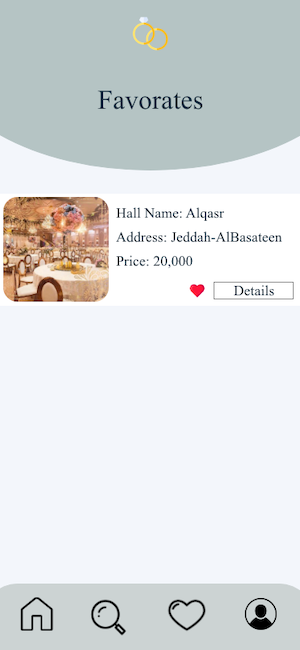
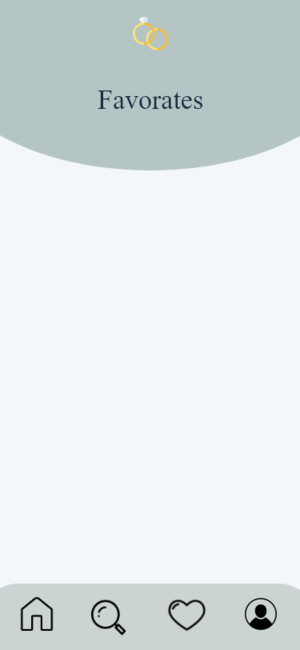
sh

diff --git a/src/project_305/TenantPage_Favorate.java b/src/project_305/TenantPage_Favorate.java
@@ -6,6 +6,11 @@
 package project_305;
 
 import java.io.FileNotFoundException;
+import java.sql.Connection;
+import java.sql.DriverManager;
+import java.sql.PreparedStatement;
+import java.sql.ResultSet;
+import java.sql.Statement;
 import java.util.logging.Level;
 import java.util.logging.Logger;
 
@@ -21,8 +26,26 @@ public class TenantPage_Favorate extends javax.swing.JFrame {
     public TenantPage_Favorate() {
         initComponents();
         setLocationRelativeTo(null);
-        
+        Connection connection = null;
+        try {
+            Class.forName("com.mysql.cj.jdbc.Driver");
+            String ConnectionURL = "jdbc:mysql://localhost:3306/weddinghallreservation";
+            PreparedStatement q;
+            connection = DriverManager.getConnection(ConnectionURL, "root", "1212");
+            String query = "Select `Hallname` , `HallPrice`  from `hallinfo`,`favorites` where `favorites`.`idTenant` ='" + Login.Id + "' and `favorites`.`idHallInfo` ='" + TenantPage_Hallinfo.id + "' and `hallinfo`.`idHallInfo`=`favorites`.`idHallInfo` ";  
+            Statement stm = connection.createStatement();
+            ResultSet rs = stm.executeQuery(query);
 
+            while (rs.next()) {
+                String Hallname = rs.getString(1);
+                double HallPrice = rs.getDouble(2);
+                jLabel2.setText(Hallname);
+                jLabel3.setText(HallPrice + "");
+            }
+
+        } catch (Exception e) {
+            e.printStackTrace();
+        }
     }
 
     /**
@@ -36,12 +59,14 @@ public class TenantPage_Favorate extends javax.swing.JFrame {
 
         jPanel1 = new javax.swing.JPanel();
         NoFav = new java.awt.Label();
-        jPanelFav = new javax.swing.JPanel();
         jLabel9 = new javax.swing.JLabel();
         jLabel7 = new javax.swing.JLabel();
         jLabel6 = new javax.swing.JLabel();
         jLabel5 = new javax.swing.JLabel();
+        jLabel10 = new javax.swing.JLabel();
         jLabel8 = new javax.swing.JLabel();
+        jLabel2 = new javax.swing.JLabel();
+        jLabel3 = new javax.swing.JLabel();
         jLabel1 = new javax.swing.JLabel();
 
         setDefaultCloseOperation(javax.swing.WindowConstants.EXIT_ON_CLOSE);
@@ -53,23 +78,7 @@ public class TenantPage_Favorate extends javax.swing.JFrame {
         NoFav.setForeground(new java.awt.Color(153, 153, 153));
         NoFav.setText("  No Favorates");
         jPanel1.add(NoFav);
-        NoFav.setBounds(60, 350, 160, 40);
-
-        jPanelFav.setBackground(new java.awt.Color(243, 246, 251));
-
-        javax.swing.GroupLayout jPanelFavLayout = new javax.swing.GroupLayout(jPanelFav);
-        jPanelFav.setLayout(jPanelFavLayout);
-        jPanelFavLayout.setHorizontalGroup(
-            jPanelFavLayout.createParallelGroup(javax.swing.GroupLayout.Alignment.LEADING)
-            .addGap(0, 300, Short.MAX_VALUE)
-        );
-        jPanelFavLayout.setVerticalGroup(
-            jPanelFavLayout.createParallelGroup(javax.swing.GroupLayout.Alignment.LEADING)
-            .addGap(0, 140, Short.MAX_VALUE)
-        );
-
-        jPanel1.add(jPanelFav);
-        jPanelFav.setBounds(0, 180, 300, 140);
+        NoFav.setBounds(70, 360, 160, 40);
 
         jLabel9.addMouseListener(new java.awt.event.MouseAdapter() {
             public void mouseClicked(java.awt.event.MouseEvent evt) {
@@ -103,6 +112,14 @@ public class TenantPage_Favorate extends javax.swing.JFrame {
         jPanel1.add(jLabel5);
         jLabel5.setBounds(20, 600, 35, 30);
 
+        jLabel10.addMouseListener(new java.awt.event.MouseAdapter() {
+            public void mouseClicked(java.awt.event.MouseEvent evt) {
+                jLabel10MouseClicked(evt);
+            }
+        });
+        jPanel1.add(jLabel10);
+        jLabel10.setBounds(0, 0, 50, 30);
+
         jLabel8.addMouseListener(new java.awt.event.MouseAdapter() {
             public void mouseClicked(java.awt.event.MouseEvent evt) {
                 jLabel8MouseClicked(evt);
@@ -111,7 +128,16 @@ public class TenantPage_Favorate extends javax.swing.JFrame {
         jPanel1.add(jLabel8);
         jLabel8.setBounds(10, 0, 30, 30);
 
-        jLabel1.setIcon(new javax.swing.ImageIcon(getClass().getResource("/project_305/TenantPage – 7.png"))); // NOI18N
+        jLabel2.setText("x");
+        jLabel2.setToolTipText("");
+        jPanel1.add(jLabel2);
+        jLabel2.setBounds(40, 220, 180, 30);
+
+        jLabel3.setText("x");
+        jPanel1.add(jLabel3);
+        jLabel3.setBounds(40, 260, 180, 30);
+
+        jLabel1.setIcon(new javax.swing.ImageIcon("C:\\Users\\shood\\Documents\\NetBeansProjects\\305-Project\\src\\project_305\\TenantPage – 7.png")); // NOI18N
         jPanel1.add(jLabel1);
         jLabel1.setBounds(0, 0, 300, 650);
 
@@ -143,6 +169,7 @@ public class TenantPage_Favorate extends javax.swing.JFrame {
 
     private void jLabel7MouseClicked(java.awt.event.MouseEvent evt) {//GEN-FIRST:event_jLabel7MouseClicked
         // TODO add your handling code here:
+
         TenantPage_Favorate ob = new TenantPage_Favorate();
         ob.setVisible(true);
         this.setVisible(false);
@@ -162,17 +189,29 @@ public class TenantPage_Favorate extends javax.swing.JFrame {
 
     private void jLabel5MouseClicked(java.awt.event.MouseEvent evt) {//GEN-FIRST:event_jLabel5MouseClicked
         // TODO add your handling code here:
-        TenantPage_Home ob=new TenantPage_Home();
+        TenantPage_Home ob = new TenantPage_Home();
         ob.setVisible(true);
         this.setVisible(false);
     }//GEN-LAST:event_jLabel5MouseClicked
 
     private void jLabel8MouseClicked(java.awt.event.MouseEvent evt) {//GEN-FIRST:event_jLabel8MouseClicked
         // BBAACCCCKKKKKK
-       TenantPage_Hallinfo ob = new TenantPage_Hallinfo();
+        TenantPage_Hallinfo ob = new TenantPage_Hallinfo();
         ob.setVisible(true);
         this.setVisible(false);
     }//GEN-LAST:event_jLabel8MouseClicked
+
+    private void jLabel10MouseClicked(java.awt.event.MouseEvent evt) {//GEN-FIRST:event_jLabel10MouseClicked
+        // BBAACCCCKKKKKK
+        TenantPage_Search ob;
+        try {
+            ob = new TenantPage_Search();
+            ob.setVisible(true);
+            this.setVisible(false);
+        } catch (FileNotFoundException ex) {
+            Logger.getLogger(TenantPage_Hallinfo.class.getName()).log(Level.SEVERE, null, ex);
+        }
+    }//GEN-LAST:event_jLabel10MouseClicked
 
     /**
      * @param args the command line arguments
@@ -212,12 +251,14 @@ public class TenantPage_Favorate extends javax.swing.JFrame {
     // Variables declaration - do not modify//GEN-BEGIN:variables
     private java.awt.Label NoFav;
     private javax.swing.JLabel jLabel1;
+    private javax.swing.JLabel jLabel10;
+    private javax.swing.JLabel jLabel2;
+    private javax.swing.JLabel jLabel3;
     private javax.swing.JLabel jLabel5;
     private javax.swing.JLabel jLabel6;
     private javax.swing.JLabel jLabel7;
     private javax.swing.JLabel jLabel8;
     private javax.swing.JLabel jLabel9;
     private javax.swing.JPanel jPanel1;
-    private javax.swing.JPanel jPanelFav;
     // End of variables declaration//GEN-END:variables
 }

diff --git a/src/project_305/TenantPage_Hallinfo.java b/src/project_305/TenantPage_Hallinfo.java
@@ -65,10 +65,9 @@ public class TenantPage_Hallinfo extends javax.swing.JFrame {
                 Image mm = format.getImage();
                 Image img2 = mm.getScaledInstance(110, 133, Image.SCALE_SMOOTH);
                 ImageIcon image = new ImageIcon(img2);
-         
 
                 idh.setText("ID: " + id);
-              name.setText(hn);
+                name.setText(hn);
                 Capacity.setText(hc + "");
                 hallAddress.setText(ha);
                 HallPrice.setText(hp + " SR");
@@ -108,10 +107,10 @@ public class TenantPage_Hallinfo extends javax.swing.JFrame {
         HallPrice = new javax.swing.JLabel();
         Capacity = new javax.swing.JLabel();
         HallContact = new javax.swing.JLabel();
-        jLabel4 = new javax.swing.JLabel();
-        jLabel3 = new javax.swing.JLabel();
         name = new java.awt.Label();
         idh = new javax.swing.JLabel();
+        jLabel10 = new javax.swing.JLabel();
+        jLabel11 = new javax.swing.JLabel();
         jLabel1 = new javax.swing.JLabel();
 
         setDefaultCloseOperation(javax.swing.WindowConstants.EXIT_ON_CLOSE);
@@ -127,7 +126,7 @@ public class TenantPage_Hallinfo extends javax.swing.JFrame {
             }
         });
         jPanel1.add(jButton1);
-        jButton1.setBounds(90, 550, 90, 30);
+        jButton1.setBounds(100, 550, 90, 30);
 
         jLabel8.addMouseListener(new java.awt.event.MouseAdapter() {
             public void mouseClicked(java.awt.event.MouseEvent evt) {
@@ -168,8 +167,10 @@ public class TenantPage_Hallinfo extends javax.swing.JFrame {
         });
         jPanel1.add(jLabel9);
         jLabel9.setBounds(240, 600, 40, 30);
+
+        jLabel2.setIcon(new javax.swing.ImageIcon("C:\\Users\\shood\\Documents\\NetBeansProjects\\305-Project\\src\\project_305\\قاعة2.jpg")); // NOI18N
         jPanel1.add(jLabel2);
-        jLabel2.setBounds(70, 180, 160, 160);
+        jLabel2.setBounds(70, 190, 160, 160);
 
         jPanel2.setBackground(new java.awt.Color(255, 255, 255));
         jPanel2.setLayout(null);
@@ -177,7 +178,7 @@ public class TenantPage_Hallinfo extends javax.swing.JFrame {
         label1.setFont(new java.awt.Font("Times New Roman", 0, 14)); // NOI18N
         label1.setText("Capacity:");
         jPanel2.add(label1);
-        label1.setBounds(10, 40, 56, 21);
+        label1.setBounds(10, 30, 56, 21);
 
         label3.setFont(new java.awt.Font("Times New Roman", 0, 14)); // NOI18N
         label3.setText("Price:");
@@ -188,27 +189,23 @@ public class TenantPage_Hallinfo extends javax.swing.JFrame {
         label4.setName(""); // NOI18N
         label4.setText("Contact Number:");
         jPanel2.add(label4);
-        label4.setBounds(10, 70, 101, 21);
+        label4.setBounds(10, 60, 101, 21);
 
         label5.setFont(new java.awt.Font("Times New Roman", 0, 14)); // NOI18N
         label5.setText("Address:");
         jPanel2.add(label5);
-        label5.setBounds(10, 100, 53, 21);
+        label5.setBounds(10, 80, 53, 21);
         jPanel2.add(hallAddress);
-        hallAddress.setBounds(70, 100, 200, 21);
+        hallAddress.setBounds(70, 80, 200, 21);
         jPanel2.add(HallPrice);
         HallPrice.setBounds(50, 10, 180, 21);
         jPanel2.add(Capacity);
-        Capacity.setBounds(70, 40, 170, 22);
+        Capacity.setBounds(70, 30, 170, 22);
         jPanel2.add(HallContact);
-        HallContact.setBounds(110, 70, 170, 21);
+        HallContact.setBounds(110, 60, 170, 21);
 
         jPanel1.add(jPanel2);
-        jPanel2.setBounds(10, 400, 280, 130);
-        jPanel1.add(jLabel4);
-        jLabel4.setBounds(150, 350, 0, 30);
-        jPanel1.add(jLabel3);
-        jLabel3.setBounds(110, 350, 30, 30);
+        jPanel2.setBounds(10, 420, 280, 110);
 
         name.setAlignment(java.awt.Label.CENTER);
         name.setBackground(new java.awt.Color(178, 197, 196));
@@ -220,6 +217,19 @@ public class TenantPage_Hallinfo extends javax.swing.JFrame {
         idh.setFont(new java.awt.Font("Tahoma", 0, 14)); // NOI18N
         jPanel1.add(idh);
         idh.setBounds(120, 120, 60, 20);
+
+        jLabel10.setIcon(new javax.swing.ImageIcon("C:\\Users\\shood\\Documents\\NetBeansProjects\\305-Project\\src\\project_305\\message.png")); // NOI18N
+        jPanel1.add(jLabel10);
+        jLabel10.setBounds(110, 360, 30, 30);
+
+        jLabel11.setIcon(new javax.swing.ImageIcon("C:\\Users\\shood\\Documents\\NetBeansProjects\\305-Project\\src\\project_305\\قلب.png")); // NOI18N
+        jLabel11.addMouseListener(new java.awt.event.MouseAdapter() {
+            public void mouseClicked(java.awt.event.MouseEvent evt) {
+                jLabel11MouseClicked(evt);
+            }
+        });
+        jPanel1.add(jLabel11);
+        jLabel11.setBounds(160, 360, 30, 26);
 
         jLabel1.setIcon(new javax.swing.ImageIcon("C:\\Users\\shood\\Documents\\NetBeansProjects\\305-Project\\src\\project_305\\page.png")); // NOI18N
         jPanel1.add(jLabel1);
@@ -298,6 +308,27 @@ public class TenantPage_Hallinfo extends javax.swing.JFrame {
         this.setVisible(false);
     }//GEN-LAST:event_jLabel9MouseClicked
 
+    private void jLabel11MouseClicked(java.awt.event.MouseEvent evt) {//GEN-FIRST:event_jLabel11MouseClicked
+        // TODO add your handling code here:
+        Connection connection = null;
+        try {
+            Class.forName("com.mysql.cj.jdbc.Driver");
+
+            String ConnectionURL = "jdbc:mysql://localhost:3306/weddinghallreservation";
+            PreparedStatement q;
+            connection = DriverManager.getConnection(ConnectionURL, "root", "1212");
+
+            String query = "insert into favorites (idTenant,idHallinfo) values (" + Login.Id + "," + id + ")";
+            Statement stm = connection.createStatement();
+            stm.executeUpdate(query);
+            TenantPage_Favorate ob = new TenantPage_Favorate();
+            ob.setVisible(true);
+            this.setVisible(false);
+        } catch (Exception e) {
+            e.printStackTrace();
+        }
+    }//GEN-LAST:event_jLabel11MouseClicked
+
     /**
      * @param args the command line arguments
      */
@@ -342,9 +373,9 @@ public class TenantPage_Hallinfo extends javax.swing.JFrame {
     private javax.swing.JLabel idh;
     private javax.swing.JButton jButton1;
     private javax.swing.JLabel jLabel1;
+    private javax.swing.JLabel jLabel10;
+    private javax.swing.JLabel jLabel11;
     private javax.swing.JLabel jLabel2;
-    private javax.swing.JLabel jLabel3;
-    private javax.swing.JLabel jLabel4;
     private javax.swing.JLabel jLabel5;
     private javax.swing.JLabel jLabel6;
     private javax.swing.JLabel jLabel7;

diff --git a/src/project_305/OwnerPage_EditPro.java b/src/project_305/OwnerPage_EditPro.java
@@ -41,7 +41,7 @@ public class OwnerPage_EditPro extends javax.swing.JFrame {
 
             if (Login.Id.startsWith("12")) {
 
-                String query = "Select `firstname` , `lastname` , `Email`, `PhoneNumber`, `Password`  from `owner` where `idOwner` ='" + Login.Id + "' ";
+                String query = "Select `Hallname` , `HallPrice`  from `favorites` where `idTenant` and `idHallInfo` ='" + Login.Id + "' ";
                 Statement stm = connection.createStatement();
                 ResultSet rs = stm.executeQuery(query);
 
